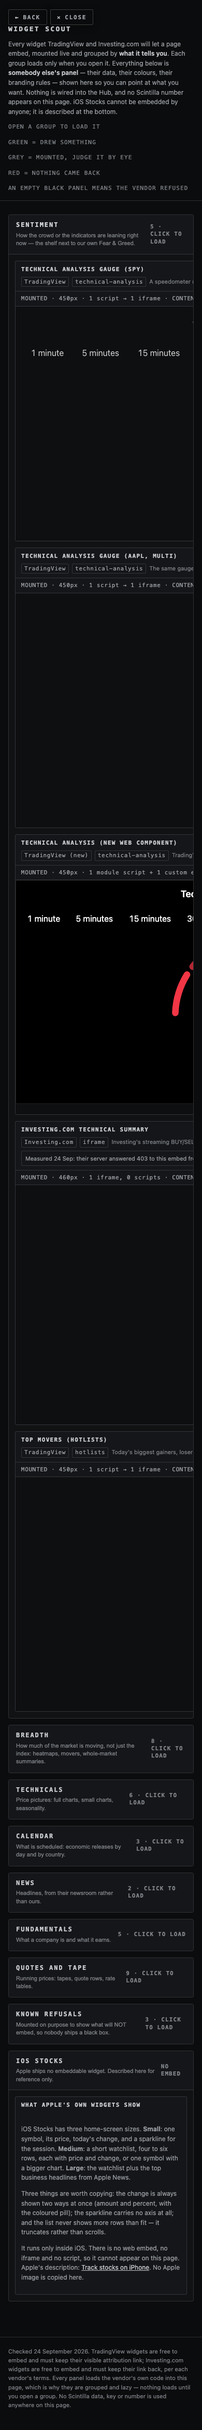
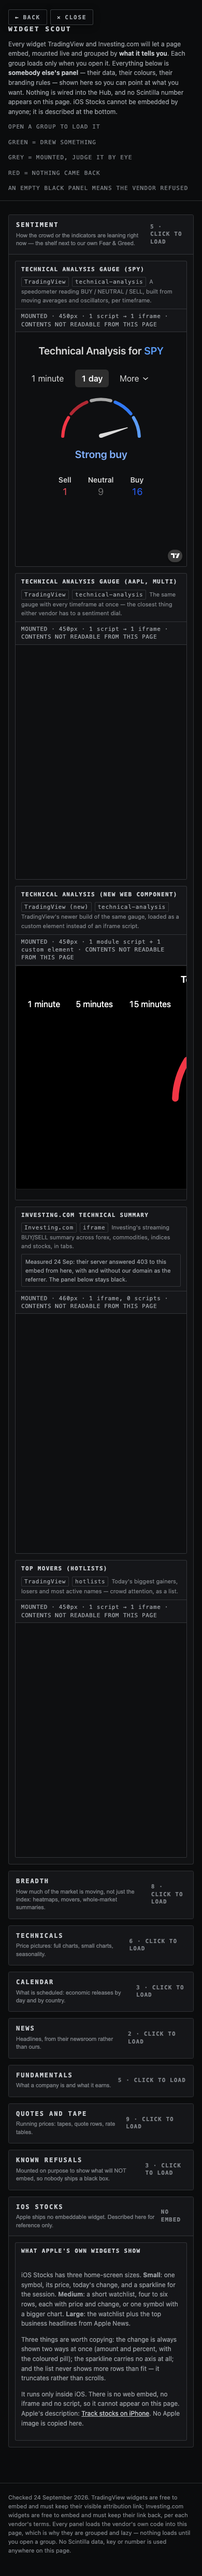
widget-scout: keep the vendor panels inside their card on a phone
At 390 the TradingView panels pushed the whole page sideways: they carry their own
minimum width and will not shrink. The card scrolls now, the page does not. The single
gauge fits a phone; the multi-timeframe one and the new-family build still do not.

diff --git a/prototypes/widget-scout/index.html b/prototypes/widget-scout/index.html
@@ -47,14 +47,16 @@
   .status[data-state="rendered"]{color:var(--ok)}
   .status[data-state="mounted"]{color:var(--ink2)}
   .status[data-state="norender"]{color:var(--no)}
-  .mountpoint{position:relative;background:#0e0f11;min-height:80px}
+  .mountpoint{position:relative;background:#0e0f11;min-height:80px;overflow-x:auto;-webkit-overflow-scrolling:touch}
   .mountpoint iframe{display:block;border:0;width:100%}
   .warn{margin-top:6px;padding:5px 7px;border:1px solid var(--line);border-radius:2px;color:var(--ink2);font-size:11px}
   .note{padding:8px 11px;font-size:11px;color:var(--ink3);border-top:1px solid var(--line)}
   .noembed{padding:11px;font-size:12px;color:var(--ink2)}
   .noembed a{color:var(--ink);text-decoration:underline}
   footer{padding:18px 16px 40px;border-top:1px solid var(--line);font-size:11px;color:var(--ink3);max-width:1520px;margin:0 auto}
-  @media (max-width:700px){ .body{grid-template-columns:1fr} h1{font-size:13px} }
+  @media (max-width:700px){ .body{grid-template-columns:1fr} h1{font-size:13px}
+    /* the vendor panels have their own minimum width: the card scrolls, the page does not */
+    .card{overflow:hidden} .mountpoint>*{min-width:min-content} }
 </style>
 </head>
 <body>
